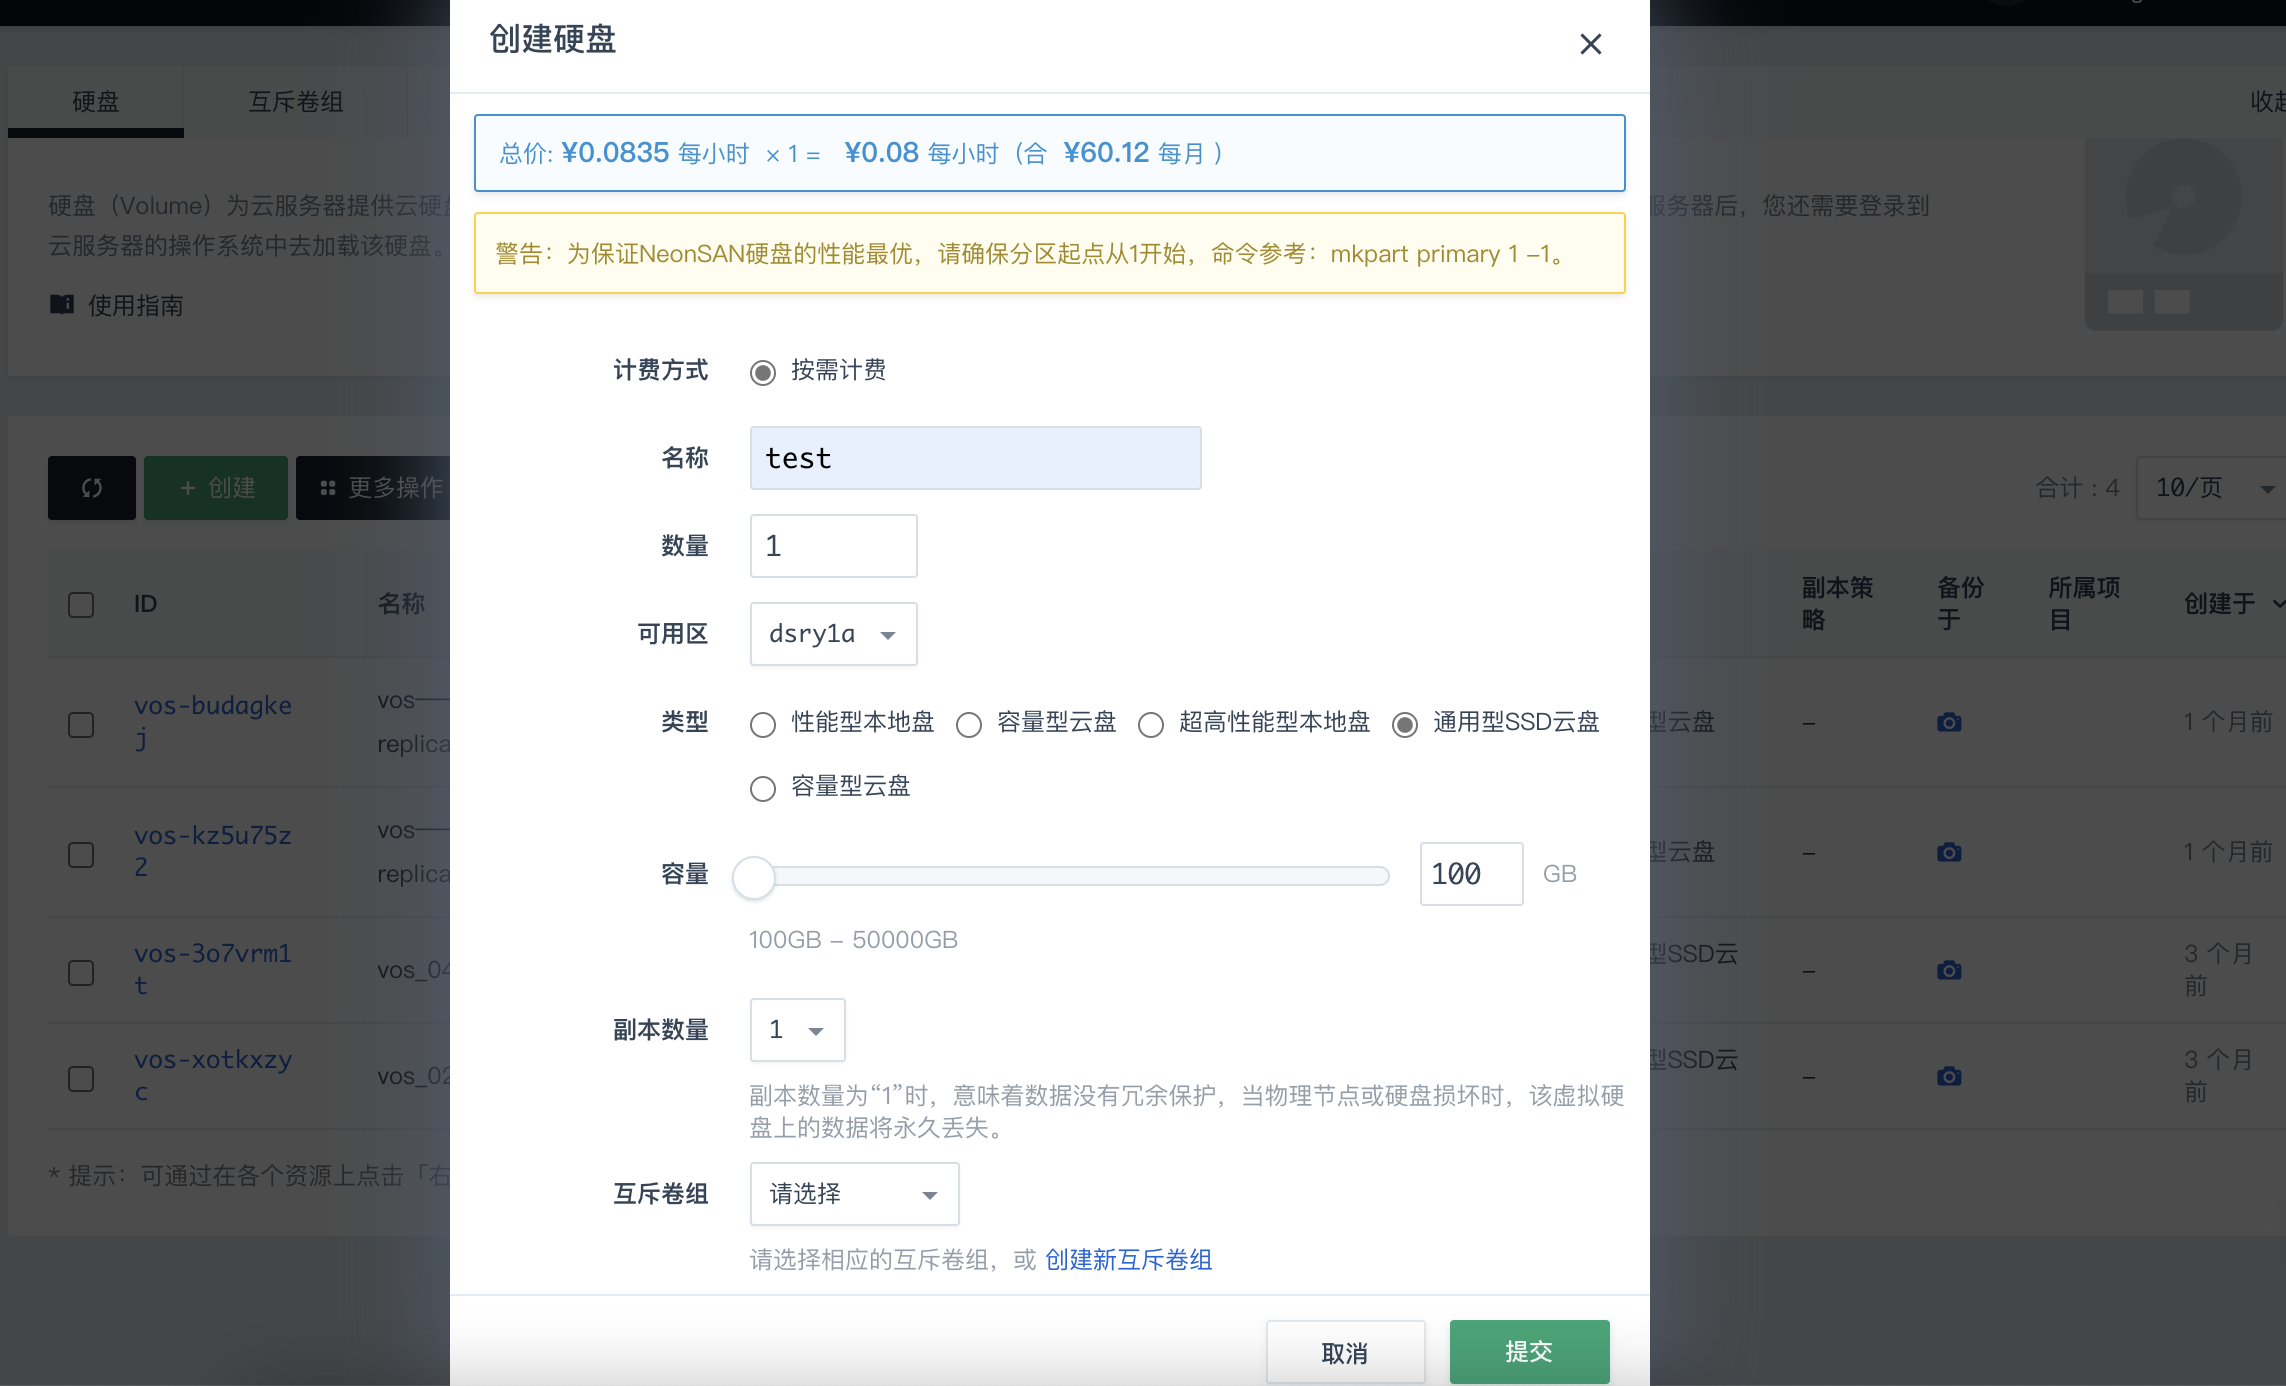
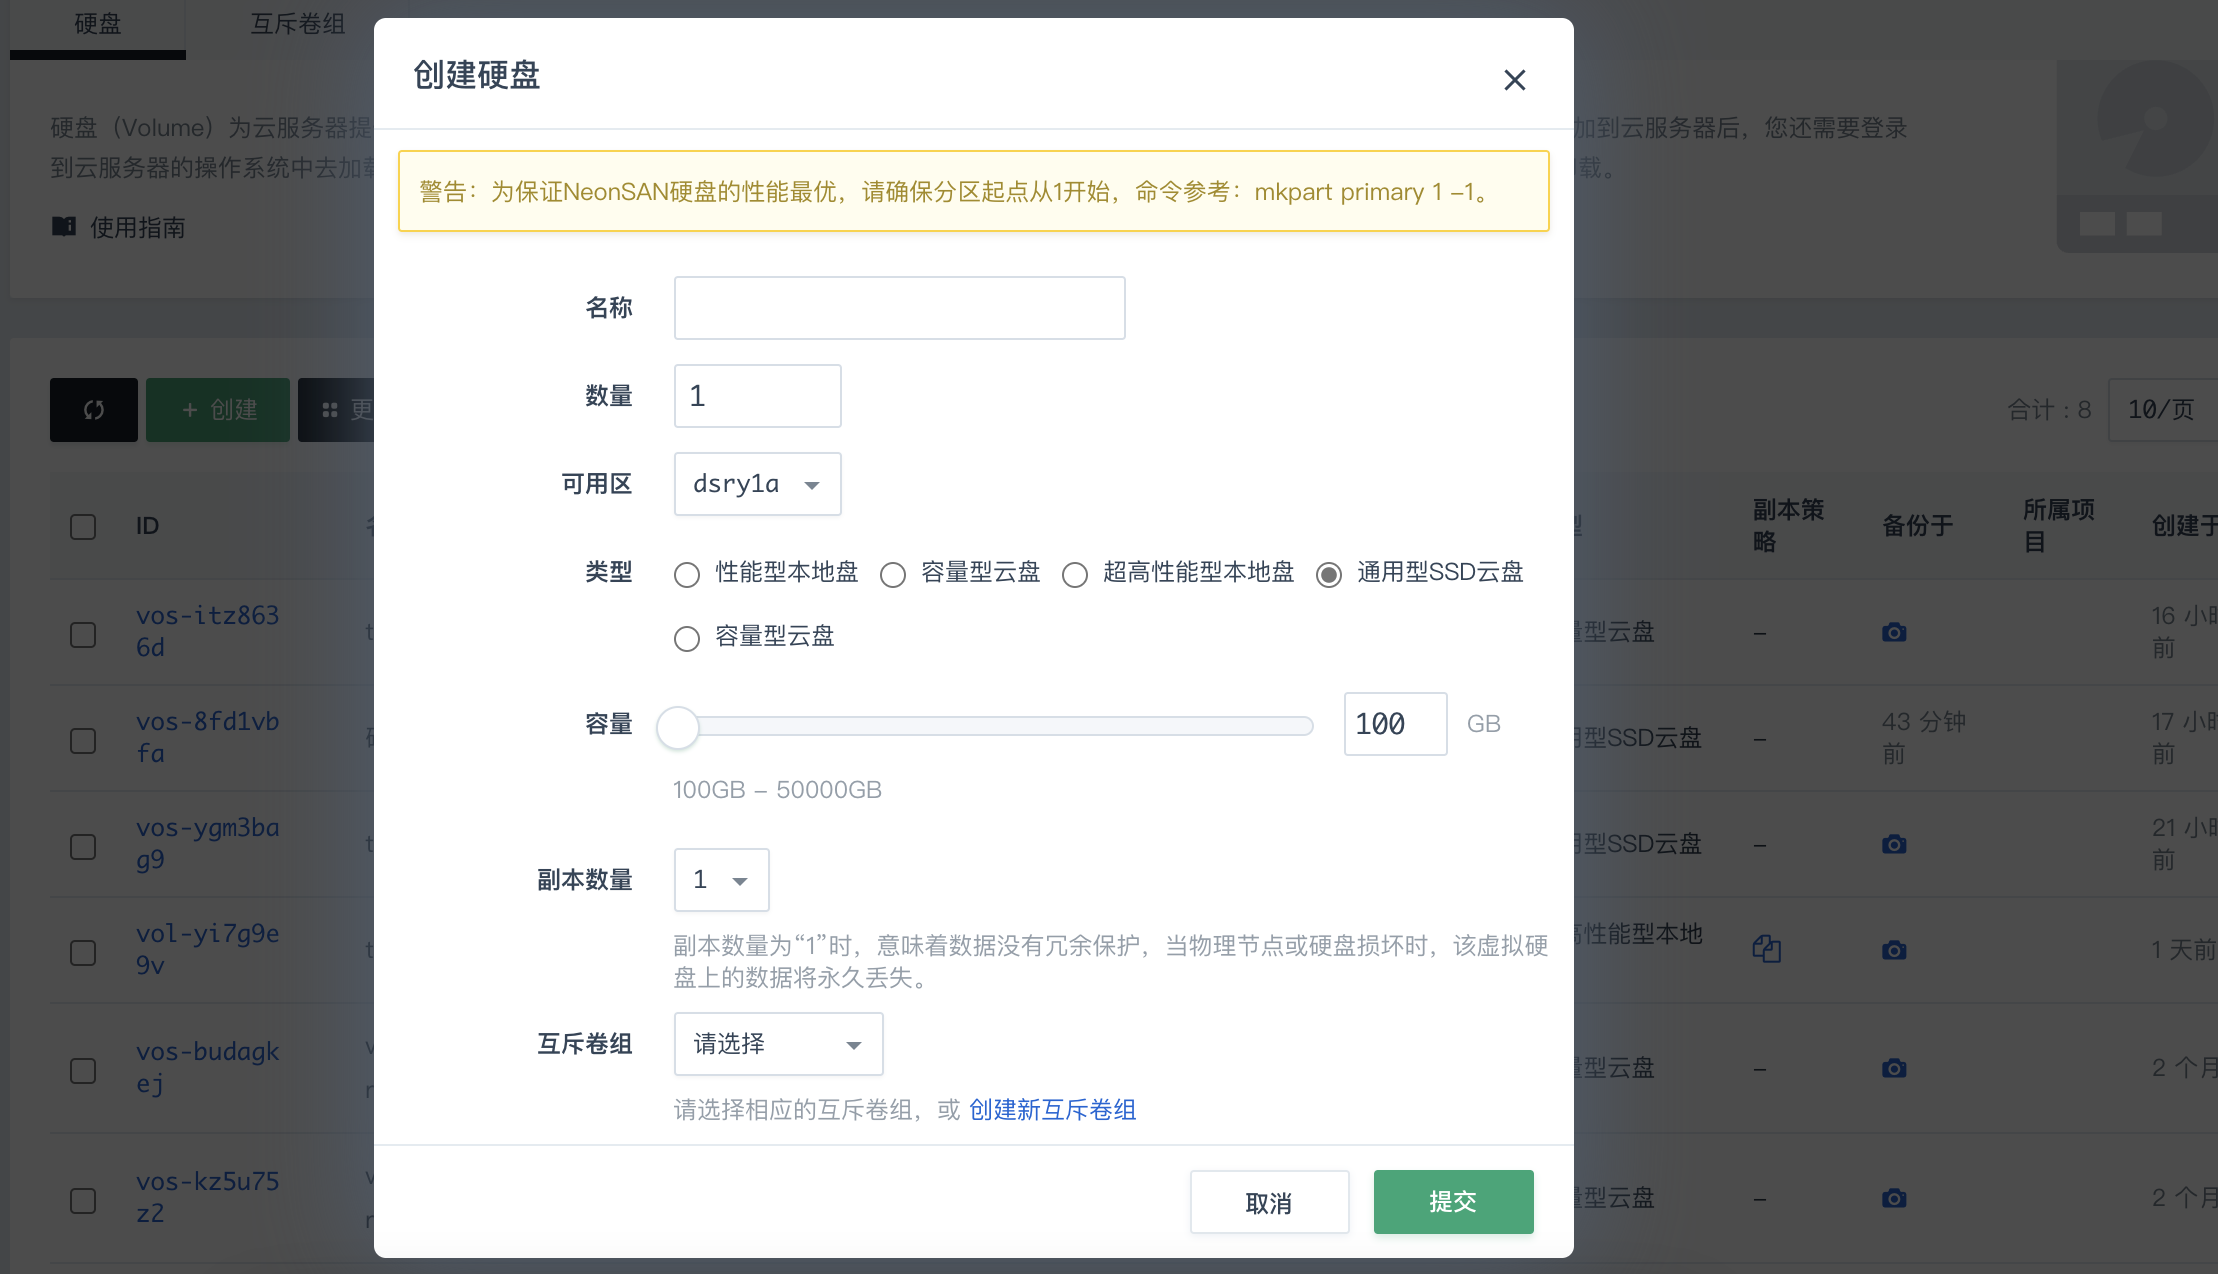
modify comments

diff --git a/content/storage/disk/manual/mutex_volumegroup.md b/content/storage/disk/manual/mutex_volumegroup.md
@@ -26,7 +26,7 @@ keyword: 云计算, 云硬盘, 互斥卷组, 基本操作指南
 
    - 名称：互斥卷组的名称。
    - 可用区：根据实际情况进行配置。
-   - 存储池：包括 SSD 和 HDD，根据实际情况进行配置。
+   - 存储池：根据实际情况进行配置。
    - 描述：互斥卷组的描述，可选项。
 
 5. 配置完成后，点击 **提交**。
@@ -79,10 +79,6 @@ keyword: 云计算, 云硬盘, 互斥卷组, 基本操作指南
            <th width="300">说明</th>
        </tr>
        <tr>
-           <td>计费方式</td>
-           <td>根据实际情况进行配置。</td>
-       </tr>
-       <tr>
            <td>名称</td>
            <td>硬盘的名称。</td>
        </tr>
@@ -104,7 +100,7 @@ keyword: 云计算, 云硬盘, 互斥卷组, 基本操作指南
        </tr>
      <tr>
            <td>副本数量</td>
-           <td>配置为1。</td>
+           <td>根据需求配置硬盘的副本数量，只有副本数量为1时，硬盘可加入互斥卷组。当前配置为1。</td>
        </tr>
      <tr>
            <td>互斥卷组</td>
